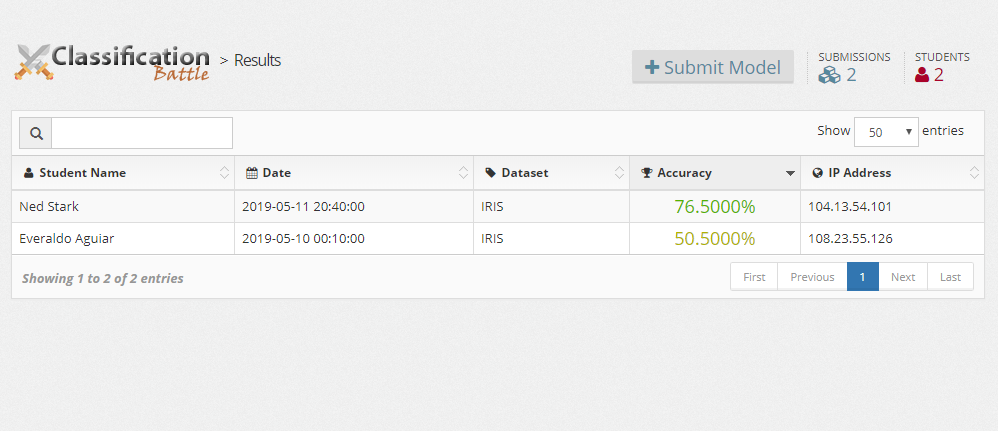
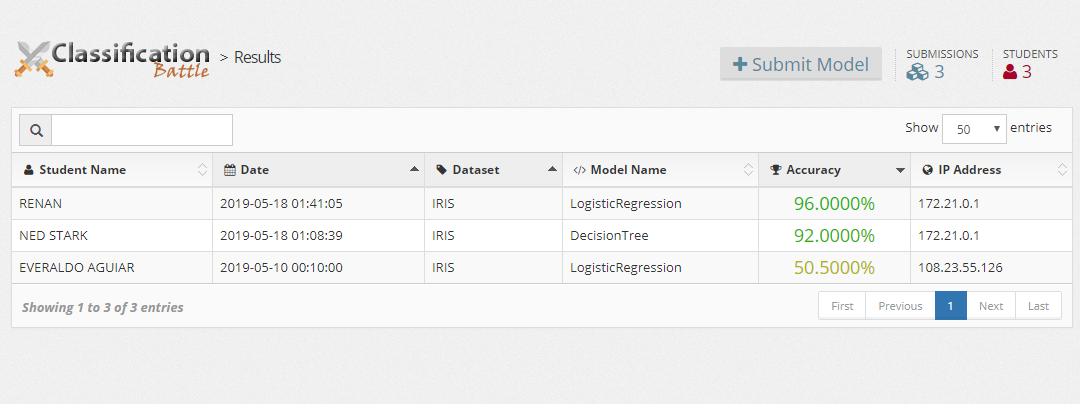
Added model name and update screnshots

diff --git a/src/js/submissions.js b/src/js/submissions.js
@@ -36,6 +36,11 @@ jQuery(document).ready(function () {
                 "searchable": true
             },
             {
+                "data": "modelName",
+                "orderable": true,
+                "searchable": true
+            },
+            {
                 "data": "accuracy",
                 "orderable": true,
                 "render": function (data, type, full, meta) {
@@ -53,7 +58,7 @@ jQuery(document).ready(function () {
             }         
         ],
         "pagingType": "full_numbers",
-        "order": [[2, 'asc'], [3, 'desc'], [1, 'asc']],
+        "order": [[2, 'asc'], [4, 'desc'], [1, 'asc']],
         "fnDrawCallback": function (oSettings) {
         }
     });

diff --git a/src/index.php b/src/index.php
@@ -77,6 +77,7 @@ if (isset($_GET['action']) && strcmp($_GET['action'], 'submitmodel') === 0 ){
                             $alertMesssage = '<i class="fa-fw fa fa-times"></i><strong>Error!</strong> An error occurred during model execution. Your score wasn\'t saved. Details: '. htmlentities($outputString) ;
                         } else {
                             $data['accuracy'] = (float) $outputObj->accuracy;
+                            $data['modelName'] = $outputObj->modelName;
                         }                        
                     }
                 } else {
@@ -102,7 +103,7 @@ if (isset($_GET['action']) && strcmp($_GET['action'], 'submitmodel') === 0 ){
 
                         foreach ($database->data as $item) {
 
-                            $key = strtoupper(trim($item->studentName)).strtoupper($item->dataset); // Unique key (student name and dataset)
+                            $key = strtoupper(trim($item->studentName)).strtoupper($item->dataset).strtoupper($item->modelName); // Unique key (student name and dataset)
 
                             if (isset($scores[$key])){
                                 if (isset($item->accuracy) && ( !isset($scores[$key]->accuracy) ||  $item->accuracy > $scores[$key]->accuracy  ) ){
@@ -272,6 +273,7 @@ if ( $database && isset($database->data) && count($database->data) > 0){
                                                     <th class=""><i class="fa fa-fw fa-user"></i>&nbsp;Student Name</th>
                                                     <th class=""><i class="fa fa-fw fa-calendar"></i>&nbsp;Date</th>
                                                     <th class=""><i  class="fa fa-fw fa-tag"></i>&nbsp;Dataset</th>
+                                                    <th class=""><i  class="fa fa-fw fa-code"></i>&nbsp;Model Name</th>
                                                     <th class=""><i class="fa fa-fw fa-trophy"></i>&nbsp;Accuracy</th>
                                                     <th class=""><i class="fa fa-fw fa-globe"></i>&nbsp;IP Address</th>
                                                 </tr>

diff --git a/src/process-model.py b/src/process-model.py
@@ -8,11 +8,12 @@ import sys
 data = {}
 data['error'] = ''
 data['accuracy'] = 0
+data['modelName'] = ""
 
 try:
     # Load the model
     clf = load(sys.argv[1])
-
+    
     # Load the dataset
     X_test = np.load('./datasets/'+ sys.argv[2] + '.x.npy')
     y_test = np.load('./datasets/'+ sys.argv[2] + '.y.npy')
@@ -22,6 +23,7 @@ try:
 
     # Evaluate predictions using simple "accuracy"
     data['accuracy'] = float(np.average(y_test == y_pred)) * 100
+    data['modelName'] = clf.__class__.__name__
 
 except:
     data['error'] = str(traceback.format_exc())
